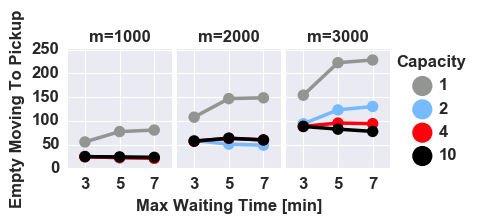
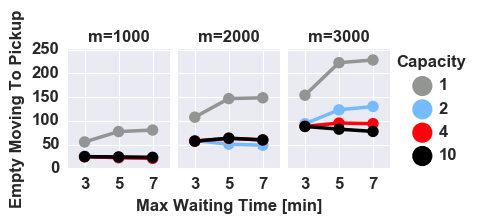
adjusted space between plots

diff --git a/scripts/plot_metrics.py b/scripts/plot_metrics.py
@@ -319,7 +319,7 @@ def make_avg_plots(big_d, plot_type):
                            make_wt_title,
                            fields + ["n_shared_per_passenger"]),
                    "comp_times": (vehicles, "vehicles", "waiting_time",
-                                  "Max Waiting Time [s]", [3, 5, 7],
+                                  "Max Waiting Time [min]", [3, 5, 7],
                                   make_wt_title, ["comp_time"])}
     iover, qstr, xcol, xlabel, xticklabels, tfunc, fs = plot_params[plot_type]
     for field in fs:
@@ -330,7 +330,7 @@ def make_avg_plots(big_d, plot_type):
         fig.set_size_inches(1.3 * 3.2, 1.5)
         for i, v in enumerate(iover, start=1):
             plt.subplot(1, len(iover), i)
-            plt.subplots_adjust(wspace=0.05)
+            plt.subplots_adjust(wspace=0.08)
             if plot_type == "comp_times":
                 q = "{} == {}".format(qstr, v)
             else:
